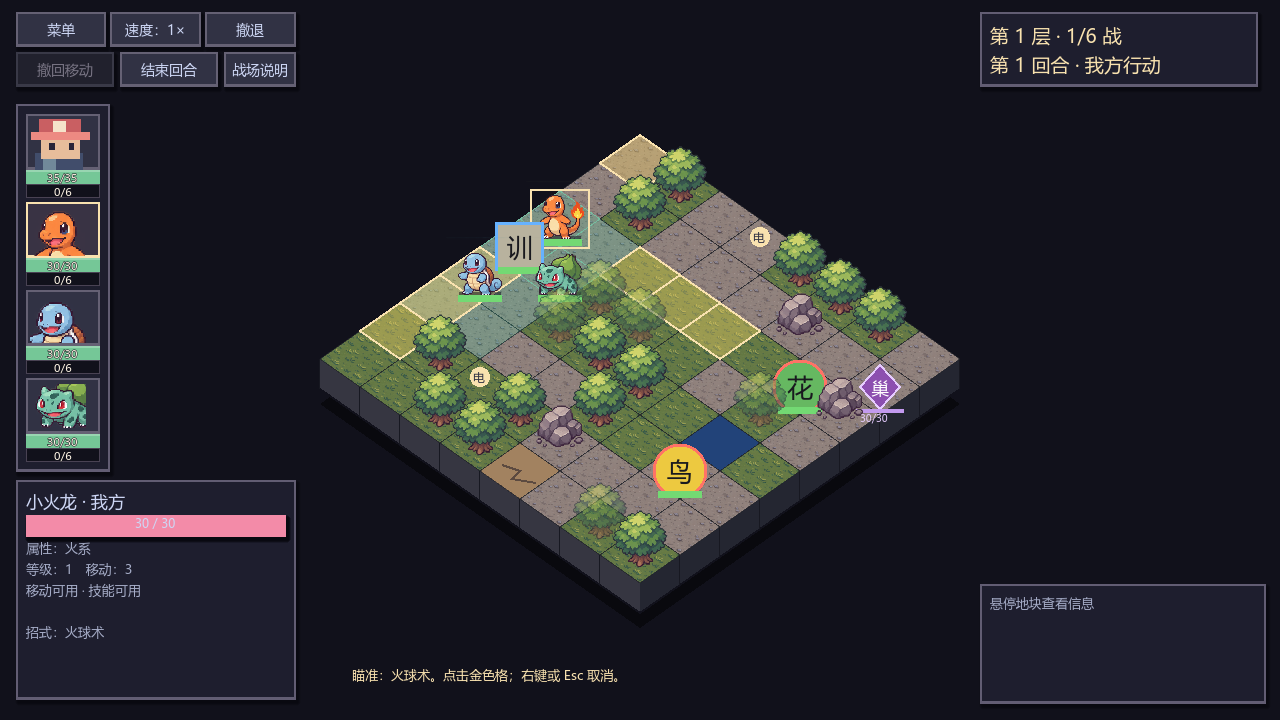
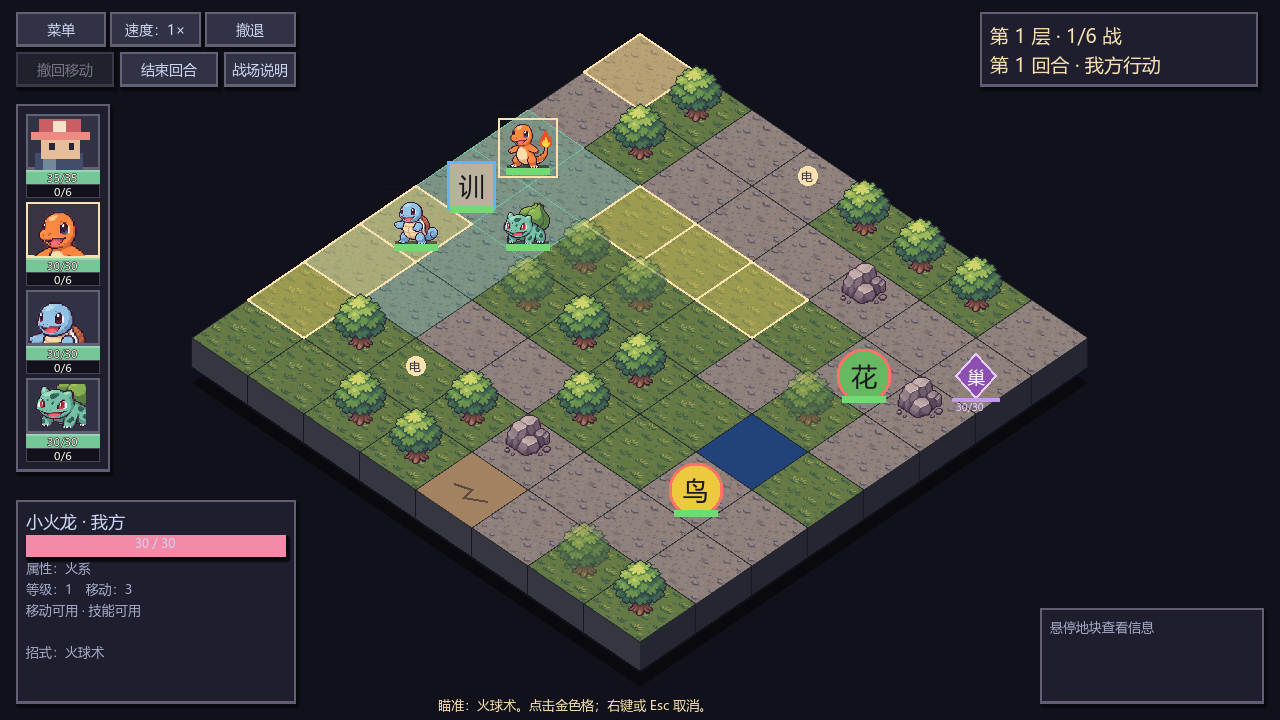
ui: enlarge isometric board and arrange HUD around four corners

diff --git a/sample/ISOMETRIC.md b/sample/ISOMETRIC.md
@@ -44,3 +44,14 @@
 - 左下恢复280×220单位详情；名称、血量、属性、等级、行动与招式常驻，禁锢/蒸汽等重要限制保留。内容过多时仅详情区滚动。
 - 无遗物时隐藏空遗物面板，行动区自动上移。
 - 本轮验证：等角/头像/HUD专项366检查点；界面流程150检查点。
+
+## 四角HUD与大棋盘（2026-11-11）
+
+- 地块由80×56调整为112×76；8×8棋盘由640×448放大至896×608，宽度增加40%，地面占屏面积约1.9倍。
+- 棋盘位置(192,34)，平台厚度与阴影完整落在1280×720内。
+- 左上：菜单/速度/撤退、回合操作、头像队伍栏。右上：回合/行动方与非空遗物信息。
+- 左下：单位详情。右下：紧凑动作区与地块说明。动作列表在必要时内部滚动，不再独占右侧中部。
+- 技能保留完整名称与悬浮说明，去掉动作区重复的操作教学文字。
+- 直接返回区域与战斗撤退继续使用不同文案及原有条件。
+- 验证：专项381项、界面流程150项、撤退策略24项通过。全量回归101用例曾有一处直接返回文案断言失败，已修复并用撤退策略专项复测；未将该次全量记录宣称为全部通过。
+- 截图渲染无脚本错误；主工作区未修改。
